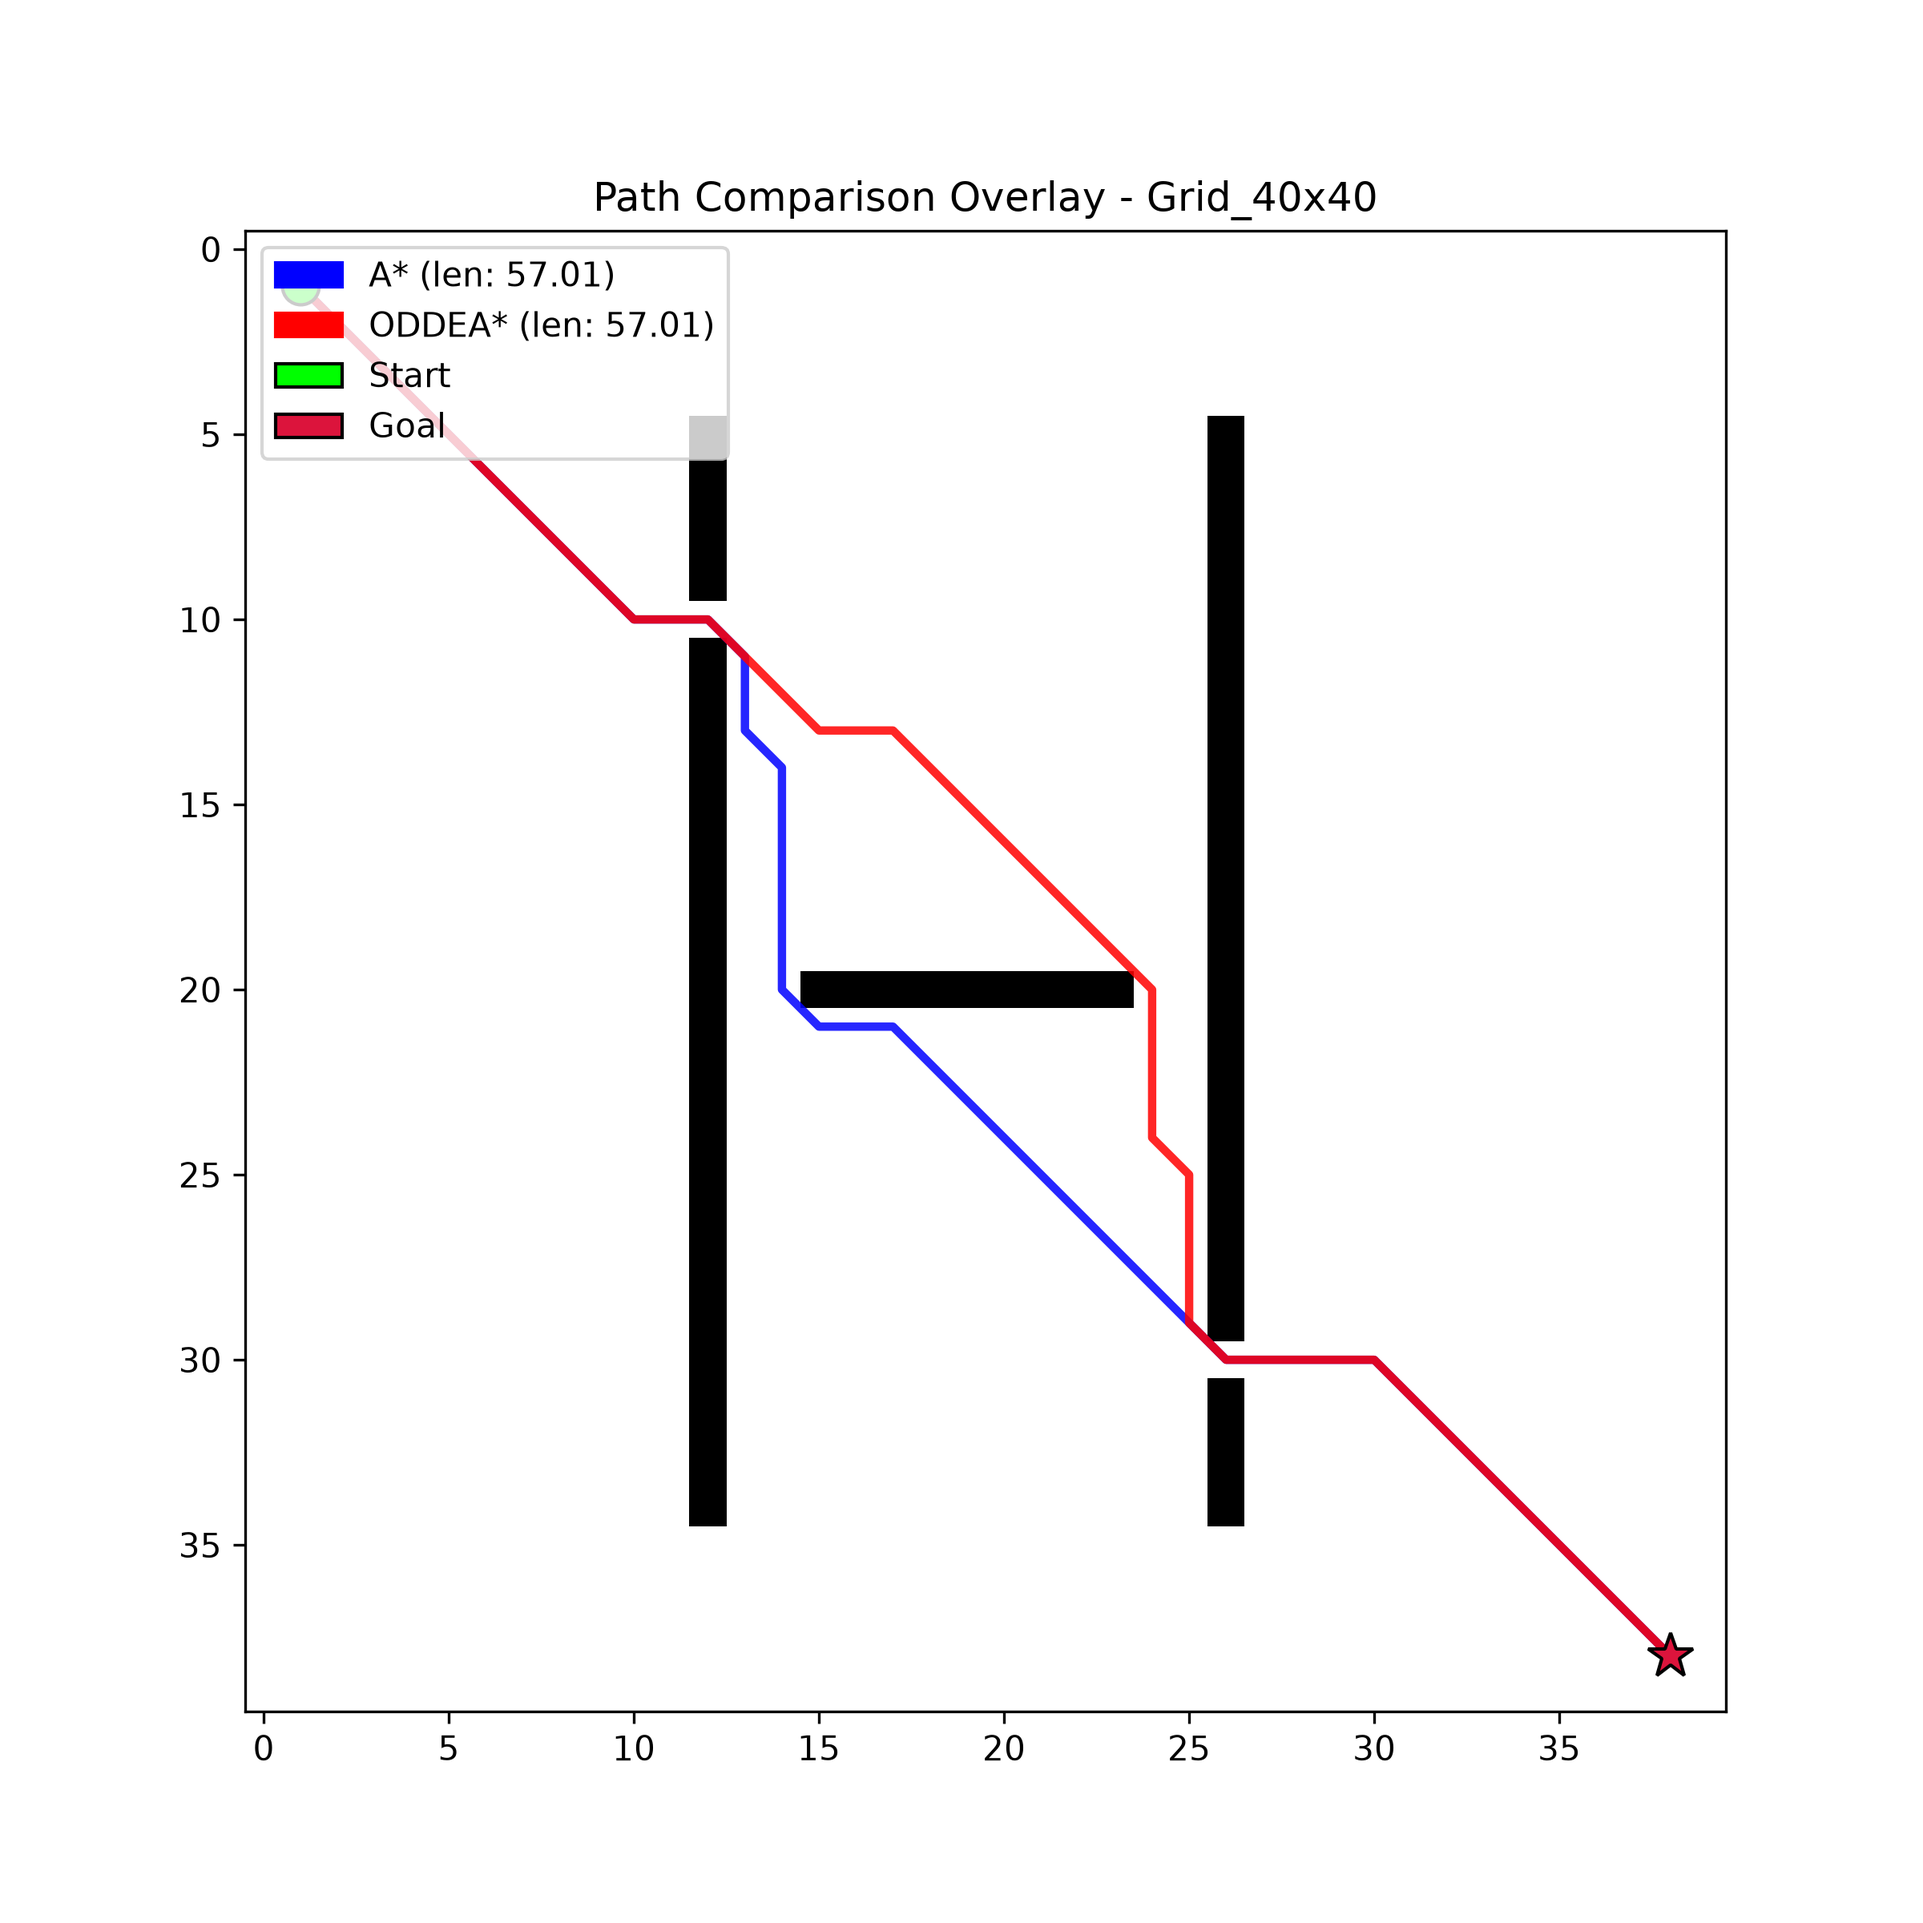
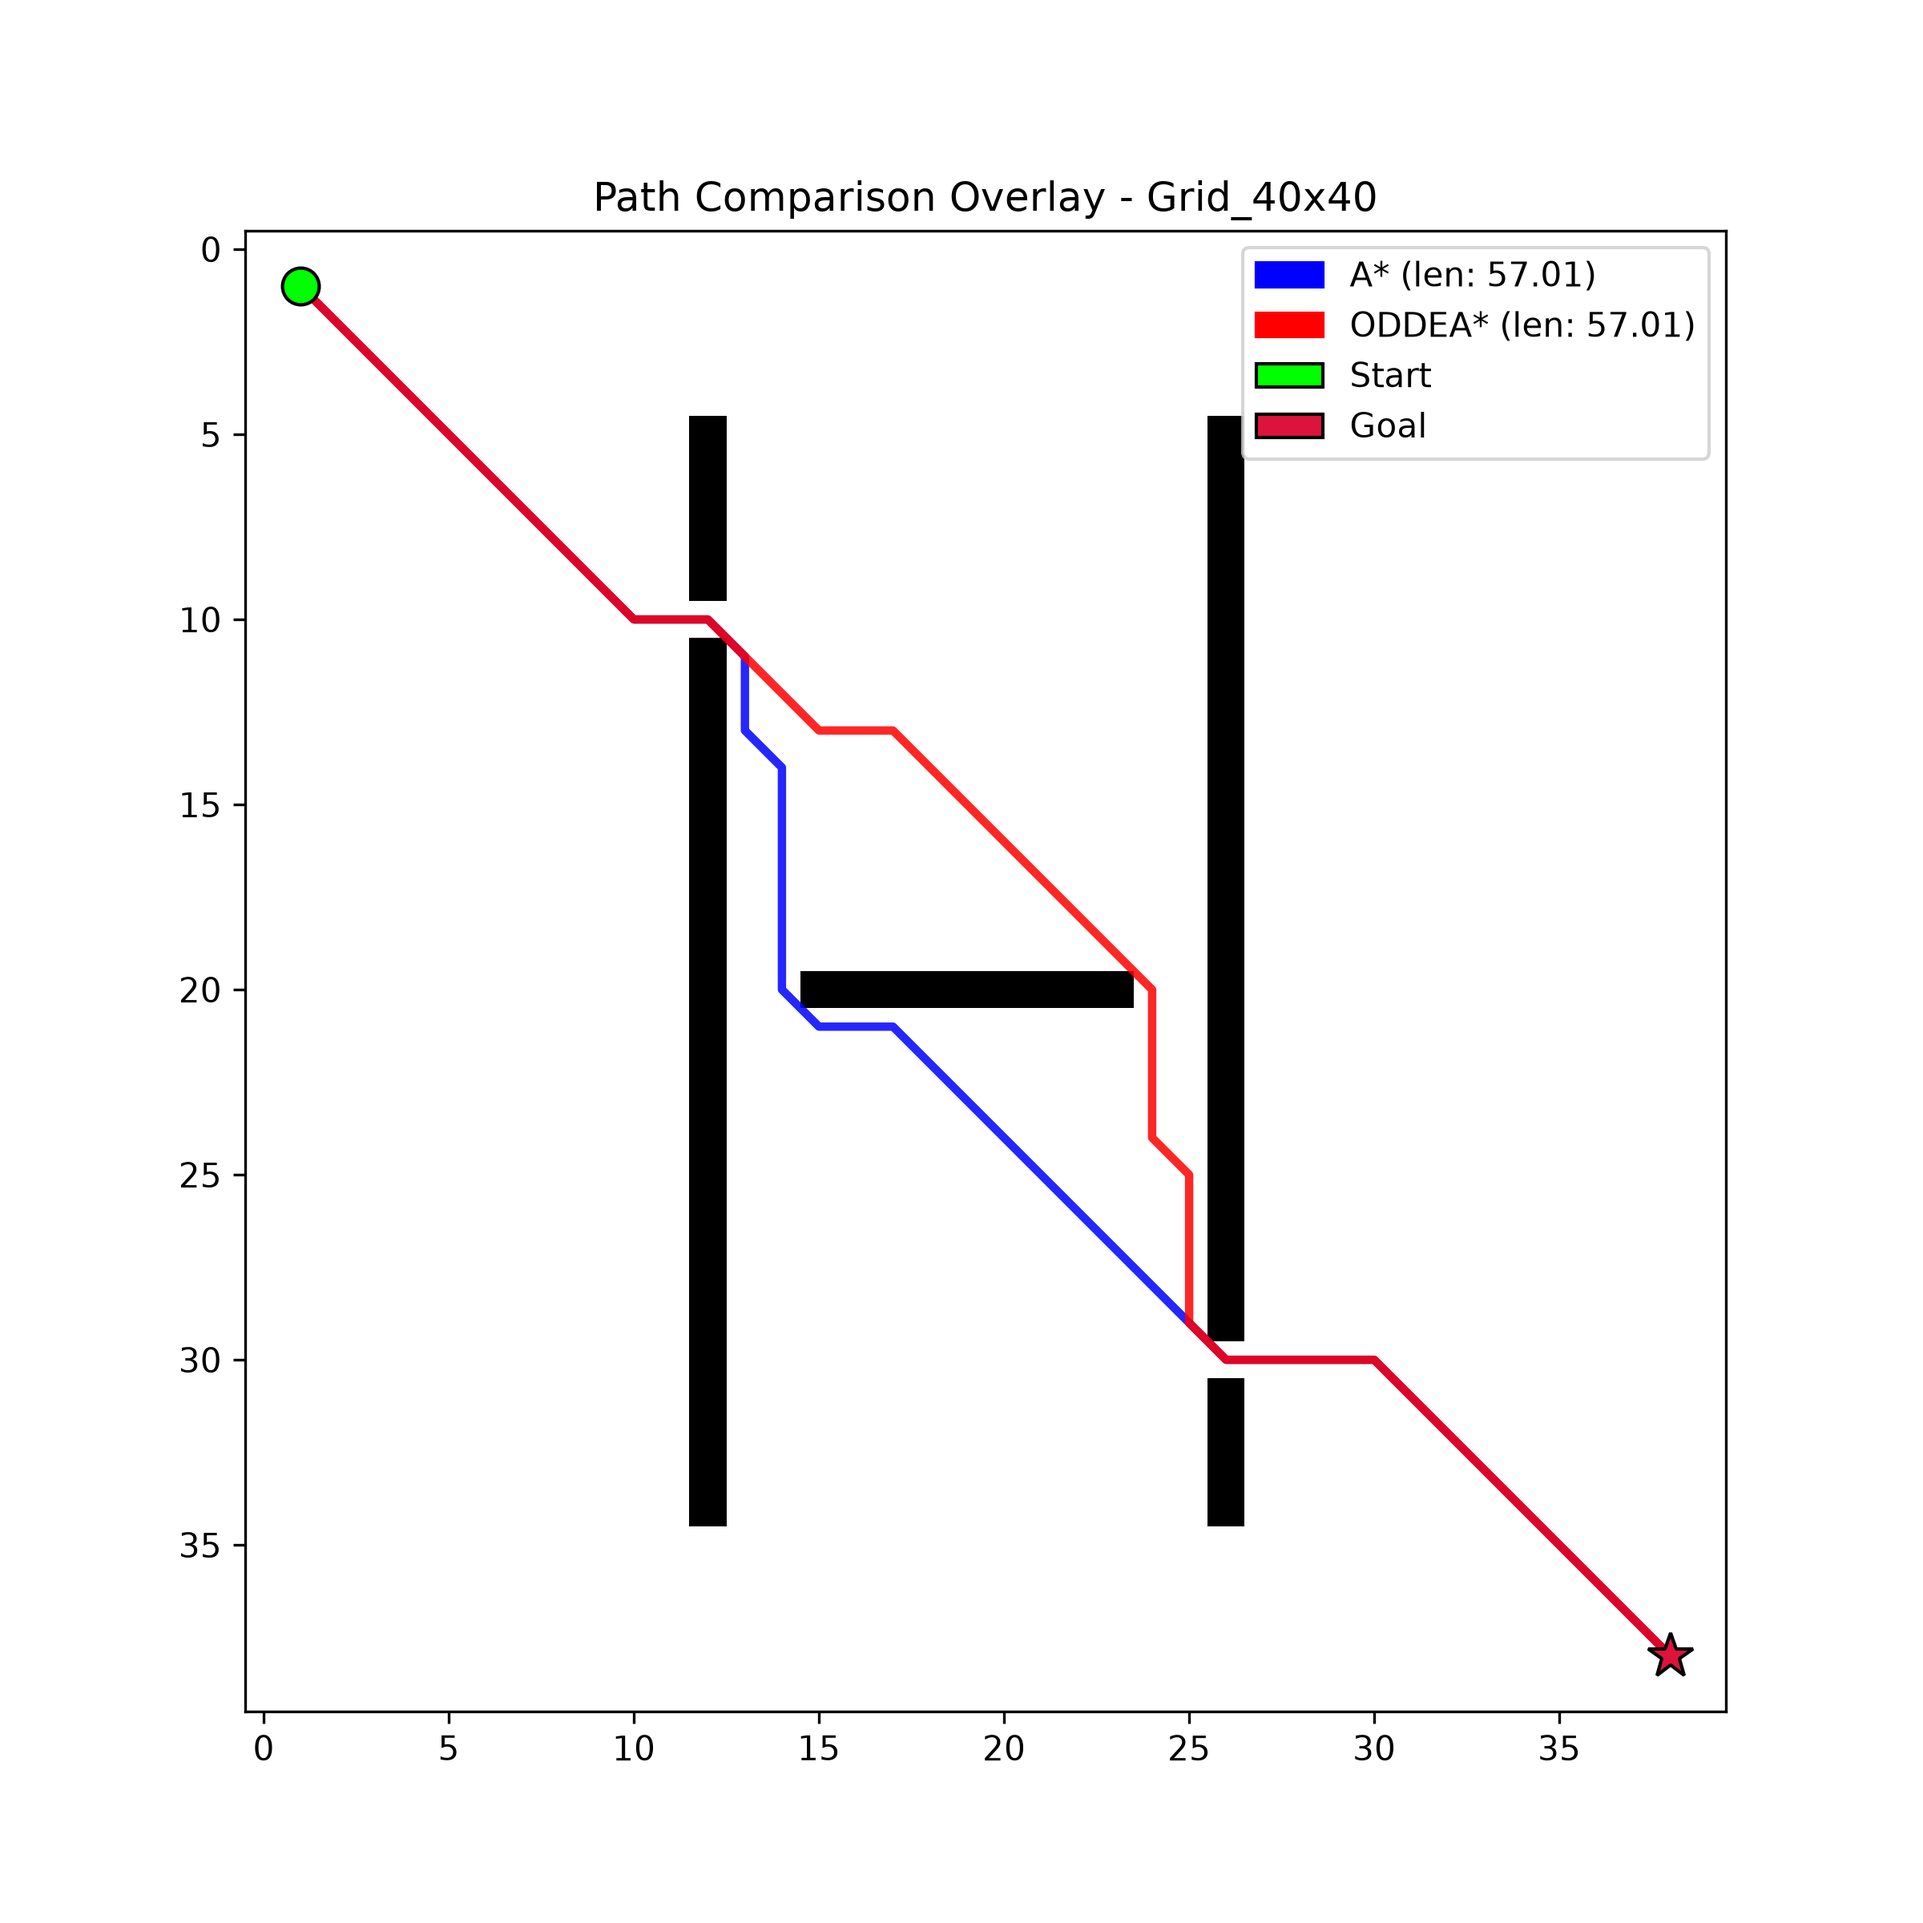
Fixed legend overlap

diff --git a/src/visualization.py b/src/visualization.py
@@ -39,7 +39,7 @@ class BenchmarkVisualizationModule:
         ax.set_title(f"Path Comparison Overlay - {title_prefix}")
         
         # Feed the custom, marker-free handles directly to the legend
-        ax.legend(handles=legend_elements, loc="upper left")
+        ax.legend(handles=legend_elements, loc="upper right")
         
         path_img_file = os.path.join(output_dir, f"{title_prefix.lower()}_paths.png")
         plt.savefig(path_img_file, dpi=300)
